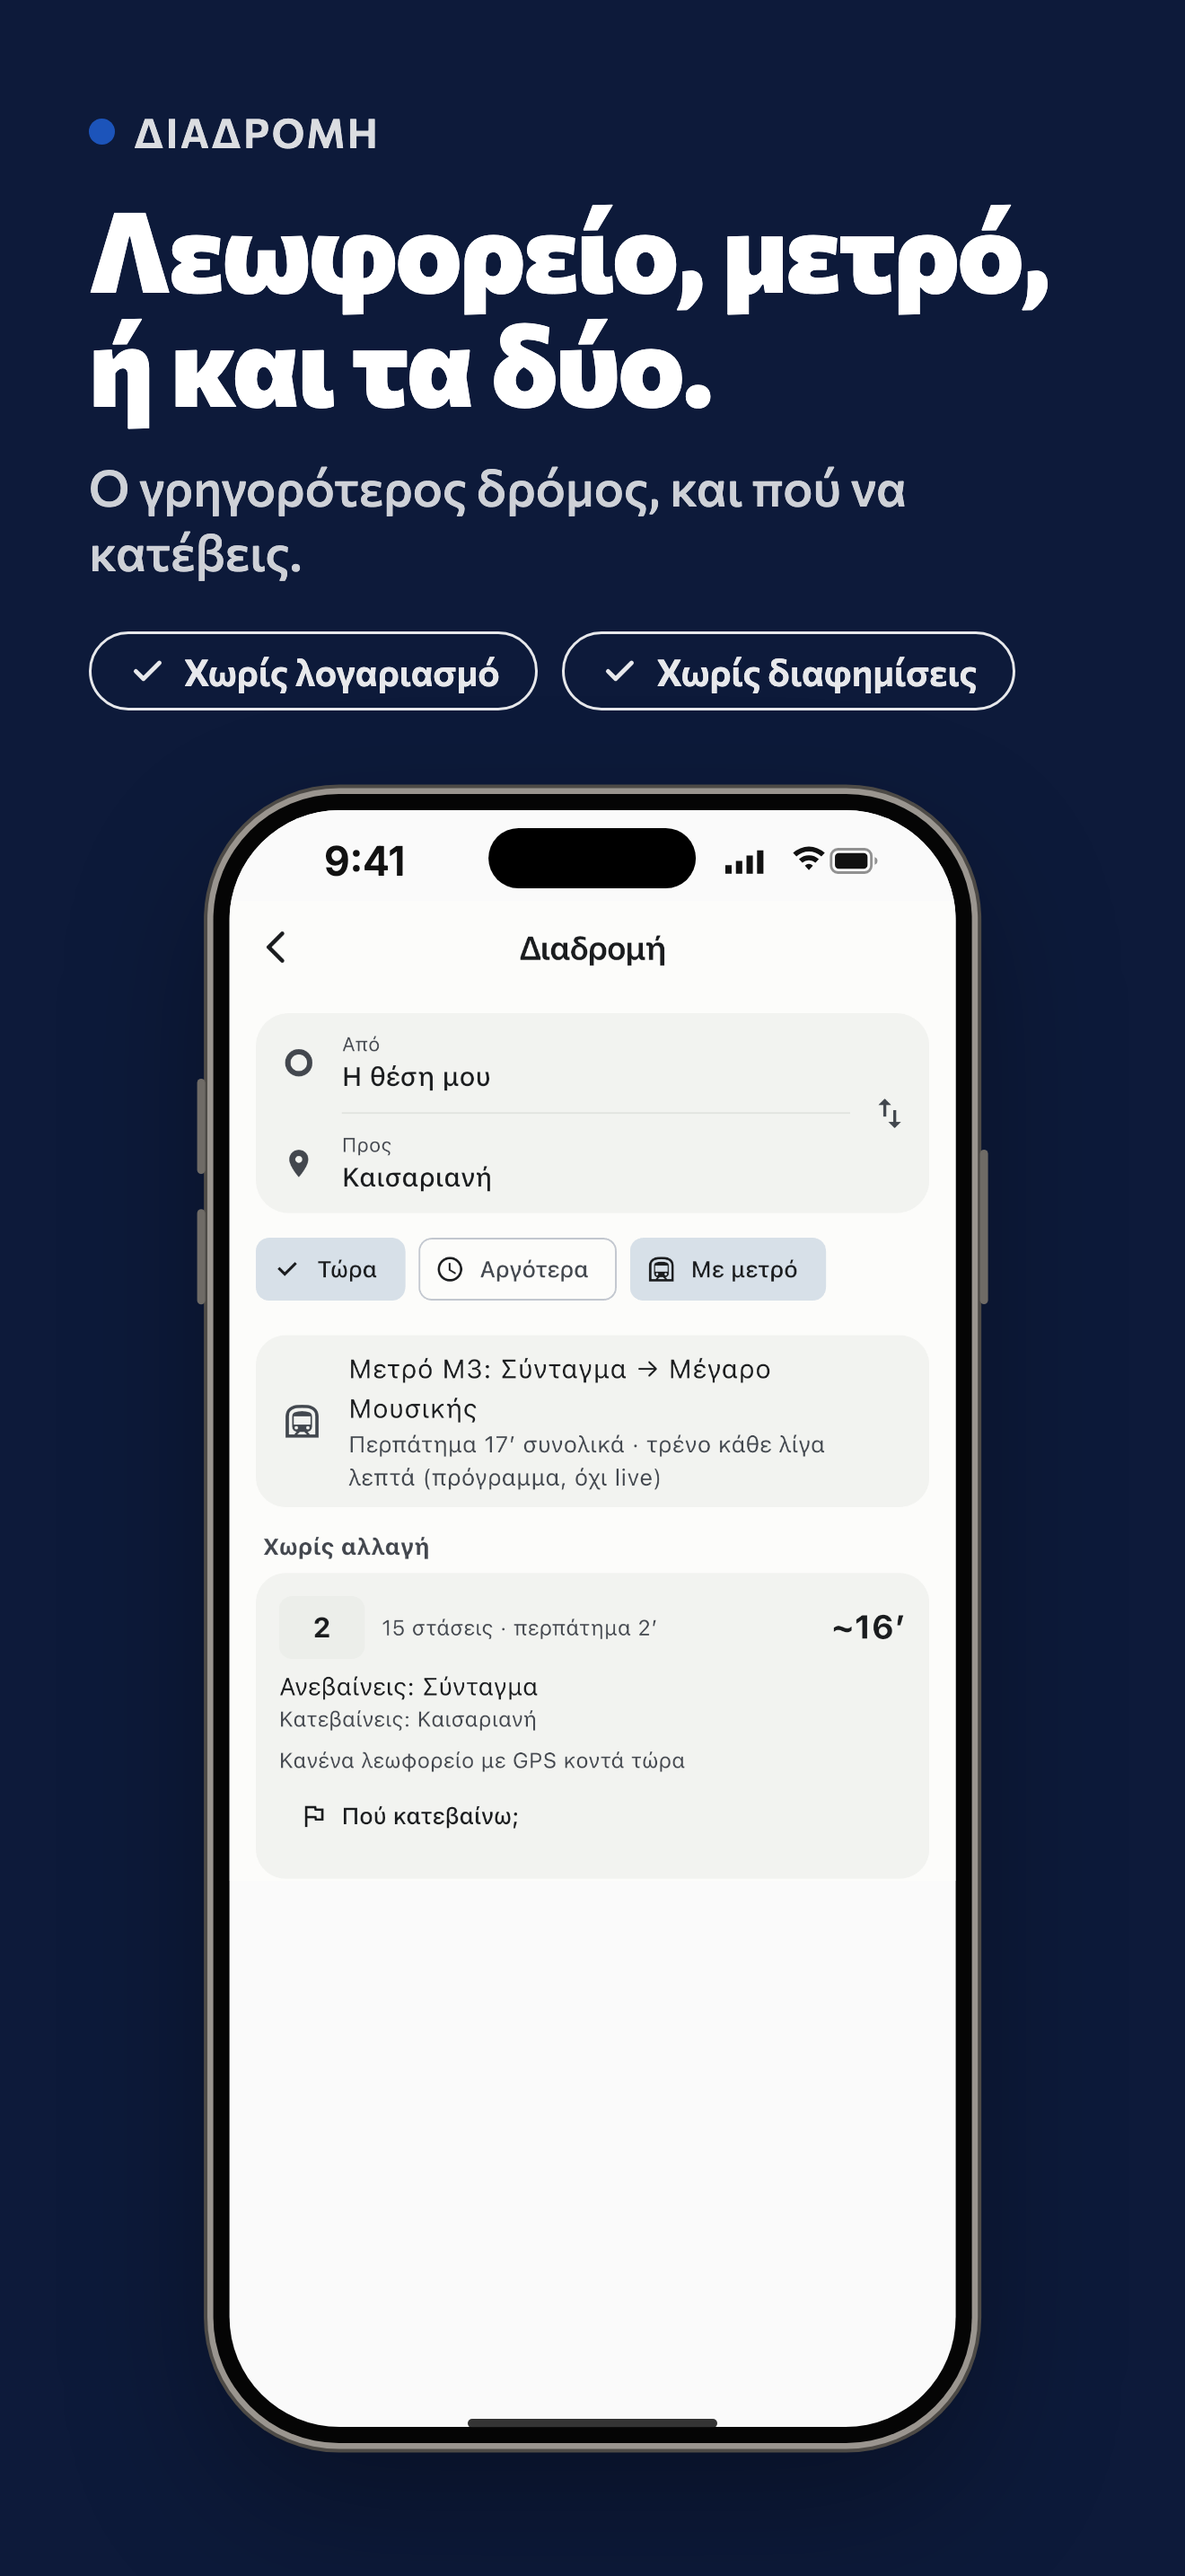
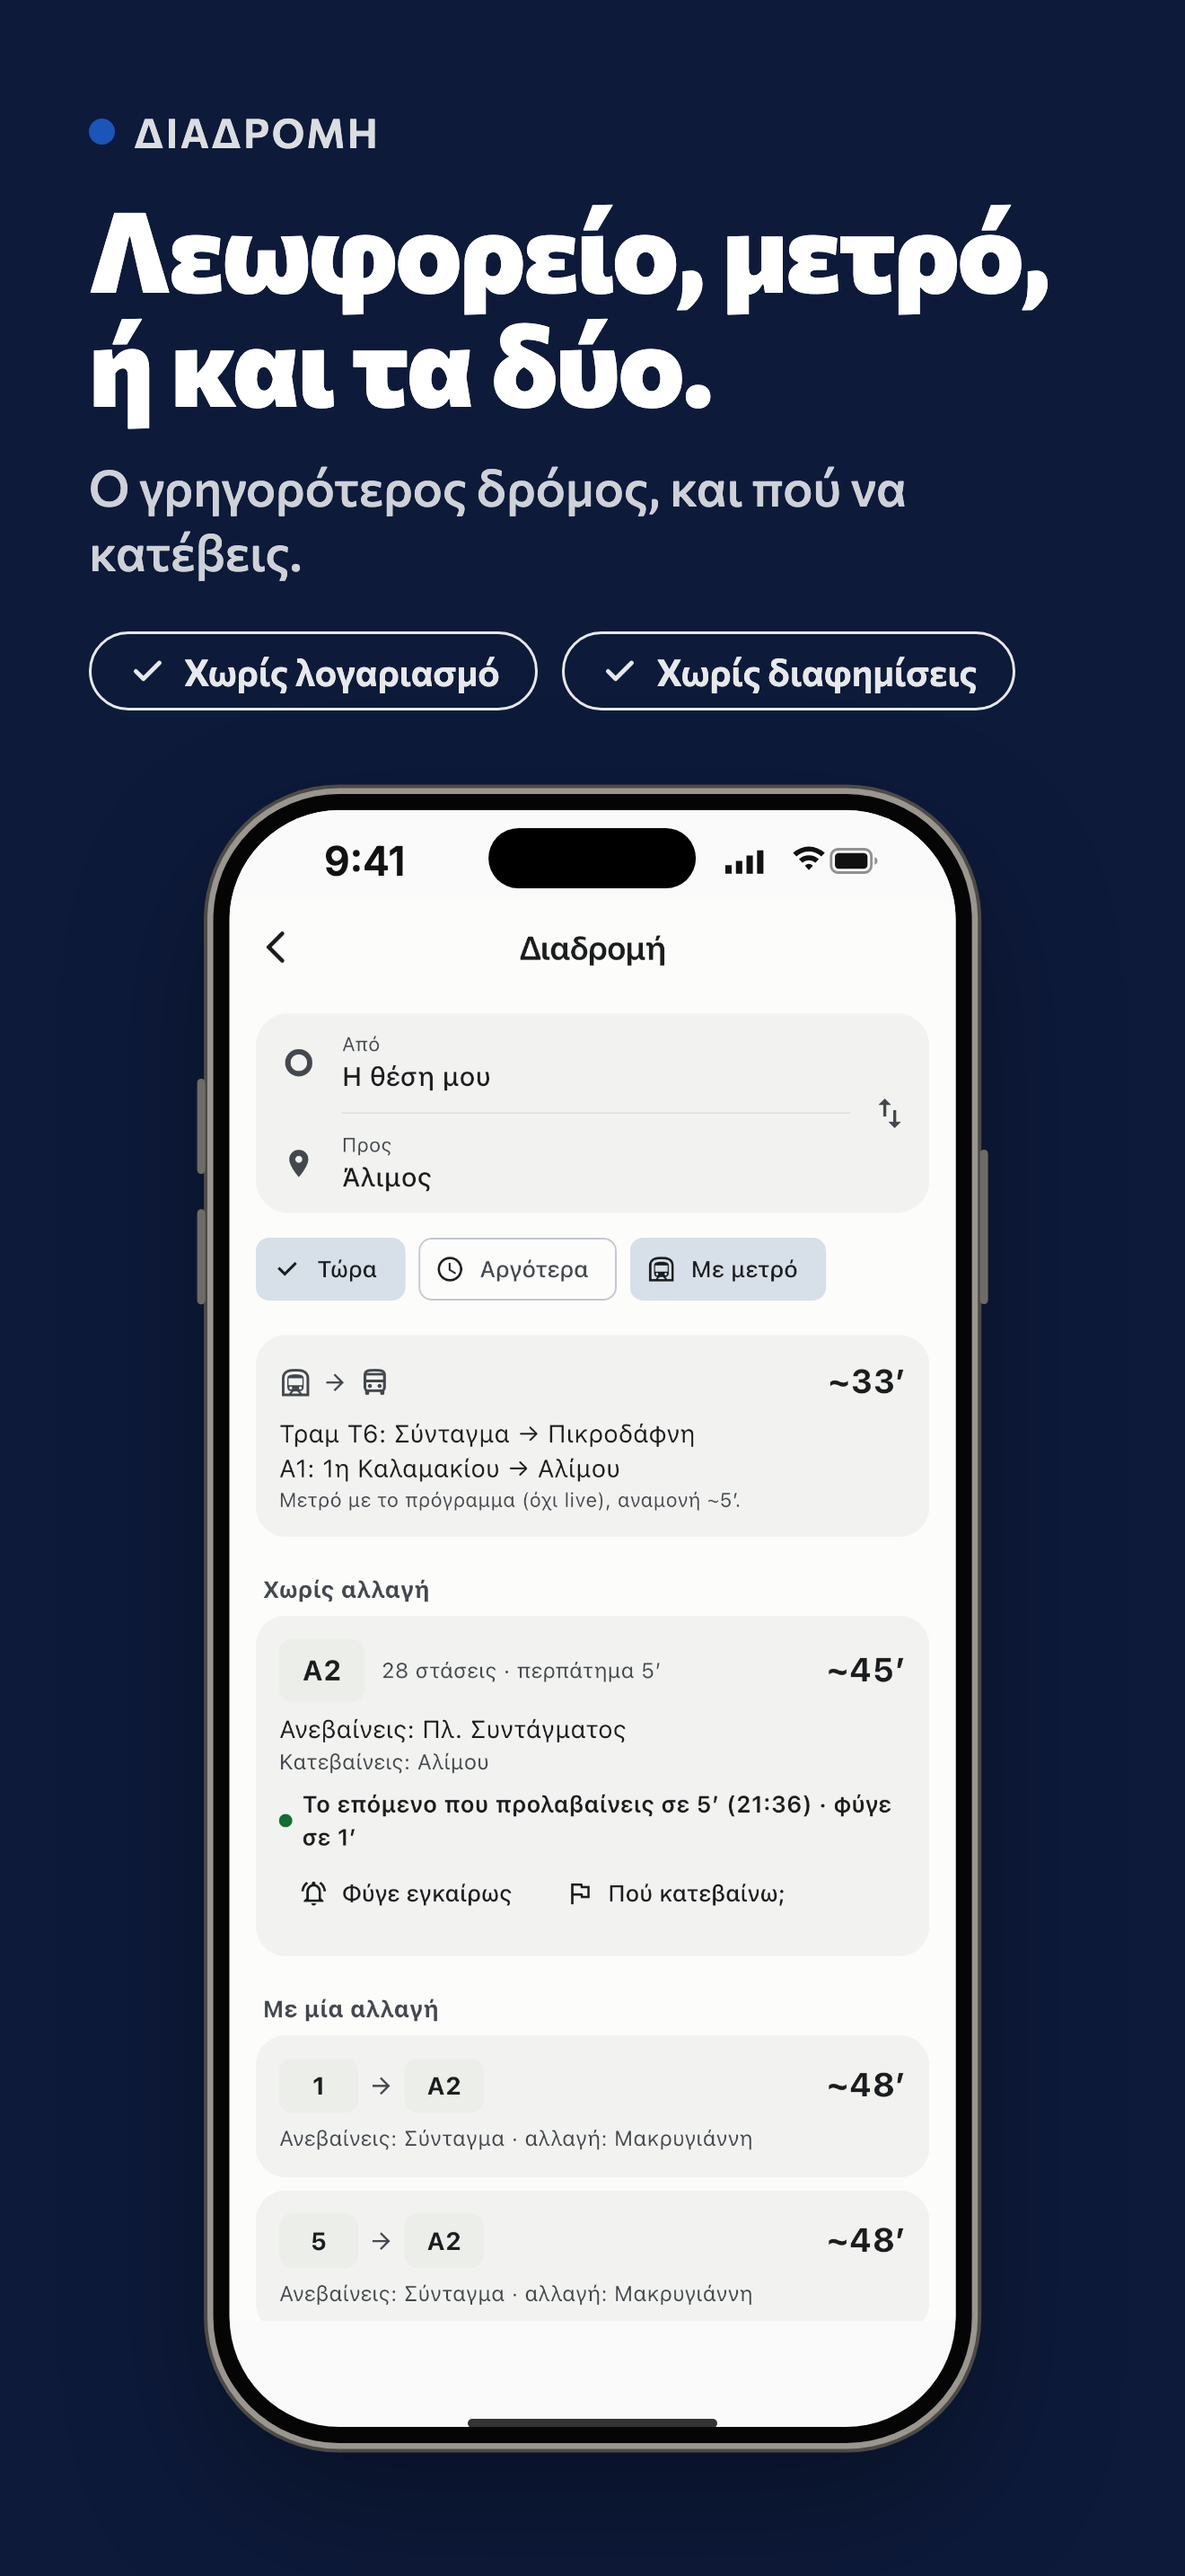
Store: iOS frame 04 shows a live bus ETA (A2 to Alimos, 5 min from GPS) and a full result list

diff --git a/docs/store/listing.md b/docs/store/listing.md
@@ -174,8 +174,7 @@ Store Connect δεν ζητά screenshots iPad. Υποστήριξη iPad μπα
 Apple δεν το επιτρέπει.
 
 Τα iPhone screenshots είναι λήψεις από iPhone 17 Pro Max simulator (iOS 27.2, 2026-11-15:
-`src/ios-*.png`). Το καρέ 04 (διαδρομή) τραβήχτηκε βράδυ με λίγα λεωφορεία και δείχνει «Κανένα
-λεωφορείο με GPS κοντά τώρα»: καλύτερα να ξαναβγεί σε ώρα αιχμής.
+`src/ios-*.png`).
 
 ## English (both stores, locale en-US / en-GB)
 
